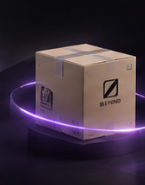
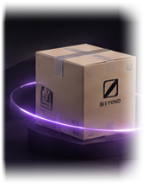
feat: update supply media styles for improved layout and visibility

diff --git a/src/components/home/ecosystem/ecosystem-stories.css b/src/components/home/ecosystem/ecosystem-stories.css
@@ -319,14 +319,27 @@
 
 .eco-supply-media {
   position: absolute;
-  left: -4%;
-  top: 18%;
-  width: 54%;
-  height: 62%;
+  left: -8%;
+  top: 10%;
+  width: 62%;
+  height: 72%;
   z-index: 0;
-  overflow: hidden;
+  overflow: visible;
   pointer-events: none;
   transition: filter 320ms ease;
+  /* Soft-edge dissolve so PNG crop bounds aren't visible */
+  -webkit-mask-image:
+    linear-gradient(to right, #000 0%, #000 58%, transparent 96%),
+    linear-gradient(to bottom, transparent 0%, #000 14%, #000 82%, transparent 100%);
+  mask-image:
+    linear-gradient(to right, #000 0%, #000 58%, transparent 96%),
+    linear-gradient(to bottom, transparent 0%, #000 14%, #000 82%, transparent 100%);
+  -webkit-mask-composite: source-in;
+  mask-composite: intersect;
+  -webkit-mask-size: 100% 100%;
+  mask-size: 100% 100%;
+  -webkit-mask-repeat: no-repeat;
+  mask-repeat: no-repeat;
 }
 
 .eco-supply-card:not(.is-lit) .eco-supply-media {
@@ -343,7 +356,7 @@
   width: 100%;
   height: 100%;
   object-fit: contain;
-  object-position: center bottom;
+  object-position: left center;
   user-select: none;
   -webkit-user-drag: none;
 }
